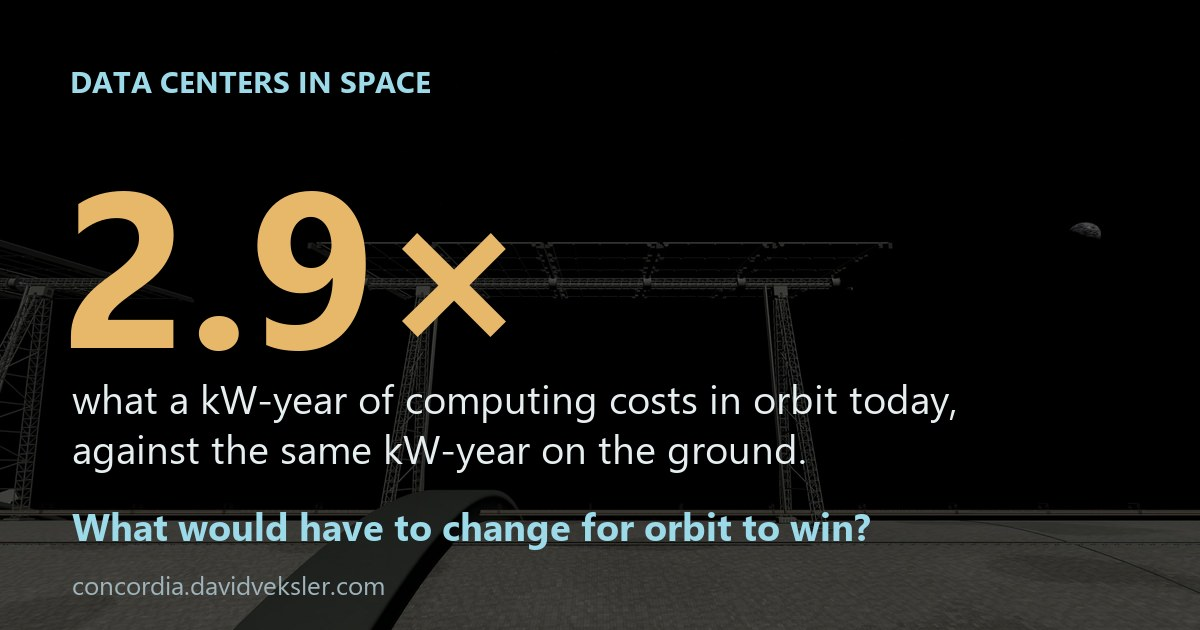
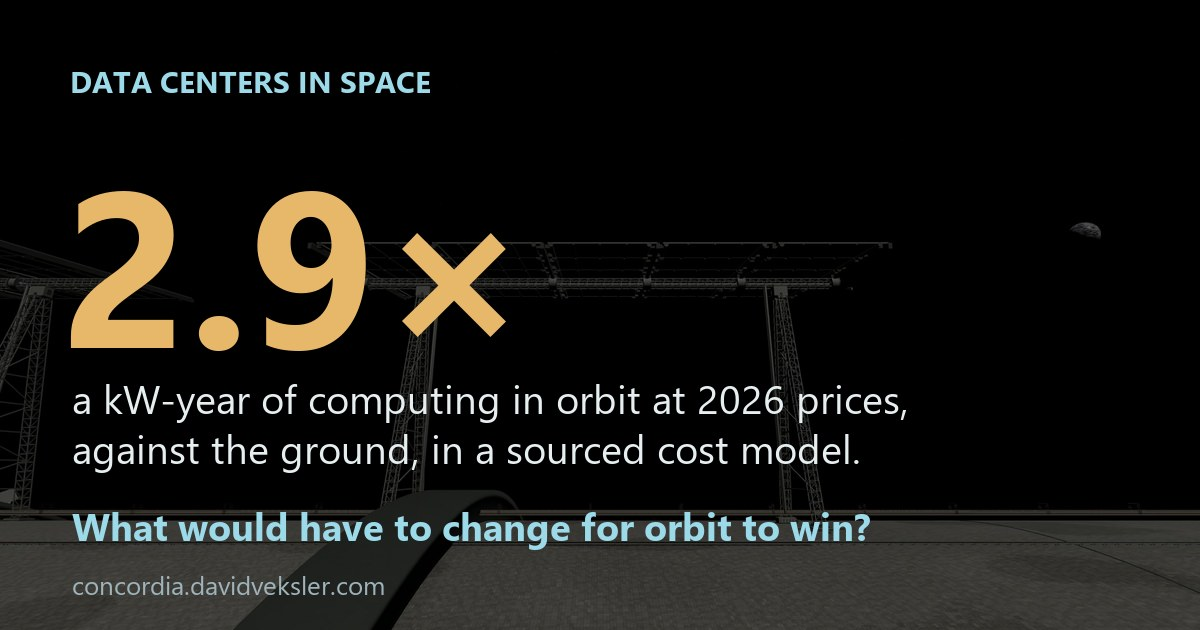
Sync from f7f3b03: Data centers page: address pre-outreach review

Changed region(s): [[0.0617, 0.6032, 0.8017, 0.6635], [0.2158, 0.6937, 0.7092, 0.754]]

diff --git a/site/content/research/data-centers-in-space.md b/site/content/research/data-centers-in-space.md
@@ -2,8 +2,8 @@
 title: "Data centers in space: when do they pay off?"
 h1: "Why build data centers in space?"
 crumb: Data centers in space
-description: "Data centers in space beat the ground only when launch cost, radiator mass and chip life cross clear thresholds. A sourced essay and calculator show where, and why an L5 city exports compute."
-lead: "Computing is the one heavy industry whose product ships for free. It needs electricity, a way to reject heat and a data link. This page sets out the physics and the costs, names the conditions under which orbit beats the ground, and gives a calculator to test them."
+description: "Data centers in space beat the ground only when launch cost, chip prices and the ground's power limits cross clear thresholds. A sourced cost model and calculator show where."
+lead: "For training, rendering and simulation, the results of a computation are small next to the energy used to make them. That makes computing a candidate export from space: it needs electricity, a way to reject heat and a data link. This page sets out the physics and the costs, names the conditions under which orbit beats the ground in one cost model, and gives a calculator to test them."
 nav: science
 order: 52
 updated: 2026-11-14
@@ -11,7 +11,7 @@ schema: TechArticle
 about: Space-based data centers
 faq: faq
 ogImage: /site/og/data-centers-in-space.jpg
-ogImageAlt: "2.9 times: what a kilowatt-year of computing costs in orbit today against the same kilowatt-year on the ground."
+ogImageAlt: "2.9 times: the baseline model's cost of a kilowatt-year of computing in orbit at 2026 prices, against the same kilowatt-year on the ground."
 webApp:
   name: Orbital compute cost calculator
   anchor: calculator
@@ -24,14 +24,14 @@ related:
 ---
 
 {% callout "How to read this page" %}
-The analysis is present-day and sourced; the numbered sources (SD1 and on) are listed in [the method section](#method). Boxes marked **Fiction** are excerpts from Concordia, a space city set in 2045, and every number in them comes from the calculator's Concordia preset.
+The analysis is present-day and sourced; the numbered sources (SD1 and on) are listed in [the method section](#method). Cost ratios are outputs of the page's model for stated inputs, not measured costs. Boxes marked **Fiction** are excerpts from Concordia, a space city set in 2045, and every number in them comes from the calculator's Concordia preset.
 {% endcallout %}
 
 ## Do data centers in space make sense? {#short-answer}
 
-Not yet. Today a kilowatt-year of computing costs about 2.9 times as much in orbit as on the ground. Orbit can compete when three things are true: launch falls to a few hundred dollars per kilogram, chips stay in service for a decade or more, and the ground runs short of sites and power. The third condition decides when the other two matter.
+Not yet. In this page's baseline model, built from 2026 prices, a kilowatt-year of computing costs about 2.9 times as much in orbit as on the ground. That is a modelled ratio, not a measured one: nobody runs an orbital data center at scale, and the model leaves out communications, insurance and radiation-driven failures. In the model, orbit competes when launch falls to a few hundred dollars per kilogram, chips get cheaper, chips in orbit last as long as chips on the ground, and the ground runs short of sites and power. The last condition decides when the others matter.
 
-The orbital case rests on one property of computing. A steel mill or a chip fab ships tonnes of product. A data center ships bits, and bits cost almost nothing to move through a laser link. Its inputs are electricity, heat rejection and a link. Space supplies the first and makes the second hard.
+The orbital case rests on a property of some computing work. A steel mill or a chip fab ships tonnes of product. A training run, a render or a simulation returns results that are small next to the energy used to compute them, and a laser link can carry them. Not every workload fits: uploading training data, moving model checkpoints and serving interactive users need far more bandwidth, and the model does not price the link. The inputs are electricity, heat rejection and a link. Space supplies the first and makes the second hard.
 
 ## Who is building data centers in space in 2026? {#state-of-play}
 
@@ -68,29 +68,34 @@ Running the radiator hotter shrinks it with the fourth power of temperature: 400
 
 ## What would make orbital data centers cheaper than the ground? {#conditions}
 
-Seven conditions, each testable in the [calculator](#calculator):
+Six near-term conditions and three longer-range levers, each testable in the [calculator](#calculator). The near-term conditions need cheaper versions of hardware that exists; the levers need technology or infrastructure that does not exist yet.
 
-1. **Cheap mass in orbit.** Launch falls to a few hundred dollars per kilogram, or the heavy parts (arrays, radiators, structure, shielding) are made in space from lunar or asteroid material.
-2. **Long chip life.** On the ground an accelerator is written off in about five years because newer chips do more work per watt. In orbit every replacement chip is relaunched, so orbit pays only once chips earn for a decade or more. Samir Varma reaches the same conclusion: the orbital bet is a bet that efficiency gains slow down (CA1).
-3. **High-temperature electronics.** Silicon carbide power switches are rated to a 175 °C junction (SD42). Logic chips that ran reliably that hot would let radiators run hotter and lighter.
+1. **Cheap launch.** Launch falls to a few hundred dollars per kilogram.
+2. **Cheaper chips.** Once launch is cheap, buying the chips is most of the orbital bill, and space qualification marks them up further.
+3. **Chips in orbit retire on the ground's schedule.** A longer chip life helps both sides, so by itself it barely moves the ratio: in the model, going from 5 to 12 years takes the Today preset from 2.87 to 3.17 times the ground, and the $200-per-kilogram case from 1.20 to 1.17. What hurts orbit is a shorter life than the ground's, because every replacement chip is launched and heat or radiation can retire chips early. With 12-year chips and $200 launch, running the radiator at 350 K instead of 330 K cuts chip life to 3.6 years and raises the ratio from 1.17 to 2.31. Samir Varma argues that the orbital bet is a bet that efficiency gains slow down (CA1); in this model slower gains lengthen chip life on both sides, so they matter mainly through the ground ceiling below.
 4. **Radiation tolerance.** Shielding, error correction and spares must keep failure rates near ground levels without a large price premium.
-5. **Latency-tolerant work.** Training, batch inference, rendering and simulation can wait a fraction of a second or a few seconds. Interactive serving stays near its users.
-6. **Servicing.** Something has to replace failed boards: robots, or people living nearby.
-7. **A terrestrial constraint.** Orbit does not need to be cheaper than the ground. It needs to be within about a factor of two and able to keep growing when the ground cannot.
+5. **Workloads that tolerate delay and return little data.** Training, batch inference, rendering and simulation can wait a fraction of a second or a few seconds. Interactive serving stays near its users, and work that moves large datasets needs a link budget the model does not include.
+6. **A terrestrial constraint.** Orbit does not need to be cheaper than the ground. It needs to be within the premium the ground would charge if it ran short of sites and power, and able to keep growing if the ground cannot.
 
-The calculator's Today preset shows how the conditions stack. At today's prices orbit costs 2.9 times the ground. Cut launch to $200 per kilogram and the ratio falls to 1.2, with the chips now 78 percent of the orbital bill. Keeping the chips for 12 years helps both sides equally and leaves it at 1.2. Add $10-per-watt chips and orbit reaches parity; add a five-cent siting surcharge on ground power and orbit is 12 percent cheaper.
+Longer-range levers:
+
+7. **Space-made mass.** The heavy parts (arrays, radiators, structure, shielding) are made in space from lunar or asteroid material instead of launched.
+8. **High-temperature electronics.** Silicon carbide power switches are rated to a 175 °C junction (SD42). Logic chips that ran reliably that hot would let radiators run hotter and lighter. None exist today.
+9. **Servicing.** Something has to replace failed boards: robots, or people living nearby. Nothing services satellites at this scale yet.
+
+The calculator's Today preset shows how the near-term conditions stack in the model. At 2026 prices orbit costs 2.9 times the ground. Cut launch to $200 per kilogram and the ratio falls to 1.2, with the chips now 78 percent of the orbital bill. Keeping the chips for 12 years on both sides leaves it at 1.2. Add $10-per-watt chips and orbit reaches parity; add a five-cent siting surcharge on ground power and orbit is 12 percent cheaper. These are model outputs for one sequence of assumptions, not forecasts.
 
 ### What launch price per kilogram is the threshold? {#launch-threshold}
 
-It depends on the chips. At today's prices no launch price makes orbit cheaper: with free launch, the space-qualified accelerators, power hardware and servicing still cost about $12,800 per kW-year against $11,800 for a whole ground kilowatt. If ground capacity runs out and prices rise 50 percent, today's designs break even at about $700 per kilogram and lighter SpaceX-style satellites at about $2,000. Google projects launch prices below about $200 per kilogram by the mid-2030s (SD21); Falcon 9 costs about $3,000 to $3,600 per kilogram today (SD25).
+It depends on the chips. In the model, at today's chip and hardware prices no launch price makes orbit cheaper: with free launch, the space-qualified accelerators, power hardware and servicing still cost about $12,800 per kW-year against $11,800 for a whole ground kilowatt. If ground capacity runs out and prices rise 50 percent, today's designs break even at about $700 per kilogram and lighter SpaceX-style satellites at about $2,000. Google projects launch prices below about $200 per kilogram by the mid-2030s (SD21); Falcon 9 costs about $3,000 to $3,600 per kilogram today (SD25).
 
 ## How much computing can Earth support? {#ceiling}
 
 Data centers used about 415 TWh of electricity in 2024, about 1.5 percent of the world's total and an average load near 47 GW (SD1). The International Energy Agency's base case more than doubles that to about 945 TWh by 2030, about 15 percent a year; it projects 30 percent a year for AI servers (SD2 to SD4). At that pace 2026 starts near 60 GW.
 
-Sustained exponential growth reaches any finite ceiling within decades, and the size of the ceiling barely moves the date:
+The table below is a scenario, not a forecast. It shows when demand would reach each ceiling if growth held at a constant rate, and growth may slow long before any of these dates. What the arithmetic does show is that under sustained exponential growth the size of the ceiling barely moves the date:
 
-| Ceiling on data center power | Size | At 15 % a year | At 30 % a year |
+| Ceiling on data center power | Size | If growth holds at 15 % a year | At 30 % a year |
 | --- | --- | --- | --- |
 | A political cap | 1 TW | 2046 | 2037 |
 | 1 % of Earth's land in solar | 18 TW | 2067 | 2048 |
@@ -99,9 +104,9 @@ Sustained exponential growth reaches any finite ceiling within decades, and the 
 
 A ceiling 9,600 times larger buys 35 more years at 30 percent growth. The land figures use about 12 W of average output per m² of solar farm, the median of recent US plants (SD10, SD11).
 
-{% diagram "oc-ceiling" "Years until data center demand reaches each ceiling, starting from 60 GW in 2026." %}
+{% diagram "oc-ceiling" "Years until data center demand would reach each ceiling if growth held constant, starting from 60 GW in 2026." %}
 
-The binding constraint on the ground is not sunlight. It is the rate at which grid connections, land, permits and cooling water can be found. Large data centers in Northern Virginia wait up to seven years for a grid connection, and London's queue runs 7 to 13 years (SD37). Heat is local before it is global: all human energy use adds about 0.03 W/m² averaged over the planet, but 0.4 to 0.7 W/m² over the United States and western Europe (SD12). A political cap arrives first.
+The binding constraint on the ground is not sunlight. It is the rate at which grid connections, land, permits and cooling water can be found. Large data centers in Northern Virginia wait up to seven years for a grid connection, and London's queue runs 7 to 13 years (SD37). Heat is local before it is global: all human energy use adds about 0.03 W/m² averaged over the planet, but 0.4 to 0.7 W/m² over the United States and western Europe (SD12). If anything limits data center power on the ground, these local limits will bind long before any physical one. Whether they harden into a cap is a policy question this page does not forecast; the calculator lets you set one and see what follows.
 
 ## What does a kW-year of compute cost on Earth and in orbit? {#calculator}
 
@@ -120,6 +125,7 @@ The case against orbit, at full strength:
 - **There are no radiation-hardened GPUs.** Commercial accelerators were never designed for cosmic rays. Shielding adds mass and spares add cost (CA3, CA4).
 - **Refresh cycles force relaunch.** A ground operator swaps a rack in an afternoon. An orbital operator launches a new satellite.
 - **Cadence, debris and servicing.** A million satellites at 60 per Starship flight is about 16,700 launches, against SpaceX's record of 165 orbital launches in 2025 (CA7). Nothing services satellites in orbit yet.
+- **Links cost money.** Optical downlinks need clear sky at the receiving station, so a working system needs several ground stations. Uploading training data and moving checkpoints takes far more bandwidth than returning results. This page's model prices none of it.
 
 What answers each objection:
 
@@ -128,12 +134,13 @@ What answers each objection:
 | Ground power is cheaper | A terrestrial constraint: orbit only needs to be within about 2× | Open: depends on how fast siting runs out |
 | Radiators are heavy | Space-made radiators, or hotter chips | Open: needs in-space manufacturing or new semiconductors |
 | No rad-hard GPUs | Shielding, error tolerance, spares | Partly answered: a Google TPU survived 15 krad in a proton beam (SD20); no on-orbit data yet |
-| Refresh cycles | Chips that stay useful for 10 years or more | Open: needs efficiency gains to slow |
+| Refresh cycles | Cheap relaunch, and chips in orbit that last as long as chips on the ground | Open: depends on radiator temperature and radiation |
 | Cadence, debris, servicing | High orbits or Lagrange points; material made in space; resident technicians | Open: none of it exists |
+| Links cost money | Workloads that return little data; several ground stations | Open: not in this model |
 
 ### Should space beam power down or send bits? {#power-or-bits}
 
-Gerard O'Neill's 1970s space colonies paid for themselves by building solar power satellites that beamed energy to Earth. Beaming power needs a receiving antenna kilometres across and loses energy at both ends. Sending the results of a computation needs a laser terminal: NASA sent 622 megabits per second from lunar orbit in 2013, and its TBIRD cubesat reached 200 gigabits per second from low orbit in 2022. Shipping bits instead of watts removes the hardest part of space solar power.
+Gerard O'Neill's 1970s space colonies paid for themselves by building solar power satellites that beamed energy to Earth. Beaming power needs a receiving antenna kilometres across and loses energy at both ends. Sending the results of a computation needs a laser terminal: NASA sent 622 megabits per second from lunar orbit in 2013, and its TBIRD cubesat reached 200 gigabits per second from low orbit in 2022, in short passes over a ground station. For workloads that return little data, shipping bits instead of watts removes the hardest part of space solar power. The link is still a real cost, with clear-sky ground stations and capacity for any data sent up, and this page's model leaves it out.
 
 ## Why does Concordia export compute? {#concordia}
 
@@ -167,11 +174,11 @@ About 830 m² at 330 K and emissivity 0.9, radiating from both faces: about 4 to
 
 ### What launch cost would make space data centers economical?
 
-It depends on the chips. At today's chip prices and five-year refresh cycles no launch price makes orbit cheaper than the ground. If ground capacity runs short and prices rise 50 percent, today's designs break even near $700 per kilogram and lighter satellite designs near $2,000.
+It depends on the chips. In this page's cost model, at today's chip prices no launch price makes orbit cheaper than the ground. If ground capacity runs short and prices rise 50 percent, today's designs break even near $700 per kilogram and lighter satellite designs near $2,000.
 
 ### Why do critics say space data centers won't work?
 
-Ground power is cheaper, radiators are heavy, commercial GPUs are not radiation-hardened, chips go obsolete in about five years and must be relaunched, and no rocket fleet can yet launch a million satellites. At 2026 prices those objections hold: orbit costs about 2.9 times the ground.
+Ground power is cheaper, radiators are heavy, commercial GPUs are not radiation-hardened, chips go obsolete in about five years and must be relaunched, and no rocket fleet can yet launch a million satellites. At 2026 prices those objections hold: this page's baseline model puts orbit at about 2.9 times the ground.
 
 ### Does radiation destroy GPUs in orbit?
 
@@ -179,19 +186,19 @@ Not quickly, as far as tests show. Google exposed a Trillium TPU to a proton bea
 
 ### How would a space data center send its results back to Earth?
 
-By laser. NASA's TBIRD reached 200 gigabits per second from low Earth orbit in 2022, and a lunar laser link sent 622 megabits per second in 2013. Results are small compared with the energy used to compute them.
+By laser. NASA's TBIRD reached 200 gigabits per second from low Earth orbit in 2022, and a lunar laser link sent 622 megabits per second in 2013. For training, rendering and simulation the results are small next to the energy used to make them. Work that moves large datasets needs far more capacity, and optical links need several ground stations to work around cloud.
 
 ### Is it better to beam solar power to Earth or put the computers in orbit?
 
-Putting the computers in orbit avoids the kilometre-wide receiving antennas and the conversion losses of power beaming. It sends bits, which need only a laser terminal. That is why the case for orbital computing is stronger than the old case for space solar power.
+Putting the computers in orbit avoids the kilometre-wide receiving antennas and the conversion losses of power beaming. It sends bits, which need a laser terminal and clear-sky ground stations. For work that returns little data, that makes the case for orbital computing stronger than the old case for space solar power.
 
 ### What would a space colony export?
 
-Computation. It needs energy, heat rejection and a data link, all of which a colony has, and its product weighs nothing. In Concordia's fictional economy a 200 GW compute field is the anchor tenant that pays for the habitat.
+Computation. It needs energy, heat rejection and a data link, all of which a colony has, and for work such as training and rendering its results weigh nothing and need little bandwidth. In Concordia's fictional economy a 200 GW compute field is the anchor tenant that pays for the habitat.
 
 ## Where do these numbers come from? {#method}
 
-The calculator and this page run the same model, `site/js/widgets/orbit-compute-core.mjs`. A script, [orbit_compute.mjs](https://github.com/DavidVeksler/concordia/blob/main/scripts/analysis/orbit_compute.mjs), prints every number on the page and regenerates the three diagrams, and an automated test checks the model against hand-worked values on every push. It is an order-of-magnitude model. It leaves out heat pumps, eclipse storage, debris, insurance, radiation-driven failure rates, communications cost and ground stations.
+The calculator and this page run the same model, `site/js/widgets/orbit-compute-core.mjs`. A script, [orbit_compute.mjs](https://github.com/DavidVeksler/concordia/blob/main/scripts/analysis/orbit_compute.mjs), prints every number on the page and regenerates the three diagrams, and an automated test checks the model against hand-worked values on every push. It is an order-of-magnitude model, and the ratios it prints are scenario outputs, not measured costs. It leaves out heat pumps, eclipse storage, debris, insurance, radiation-driven failure rates, communications cost and ground stations.
 
 {% deeper "Model equations" %}
 Capital recovery factor, the yearly payment that repays one dollar over n years at rate r:
@@ -215,7 +222,7 @@ Ceiling: energy growth = (1 + demand growth) / (1 + efficiency gain) − 1; year
 1 % of land in solar: 1.49 × 10¹⁴ m² of land × 1 % × 12 W/m² of average output = 18 TW. Sunlight intercepted: π × (6,371 km)² × 1,361 W/m² = 173,500 TW. Data center load in 2024: 415 TWh / 8,760 h = 47 GW.
 {% enddeeper %}
 
-Changelog: 14 November 2026, first version.
+Changelog: 14 November 2026, first version. 14 November 2026, revised: chip life restated as a retirement-schedule condition (a longer life helps both sides; a shorter life in orbit hurts orbit), link and bandwidth assumptions qualified, ratios and growth dates labelled as model outputs and scenarios, longer-range levers moved after the near-term conditions.
 
 {% sources %}
 - SD1 to SD4. IEA, "Energy and AI", 2025, chapter "Energy demand from AI" (415 TWh and 1.5 % in 2024; 945 TWh by 2030; 12 % a year over five years; AI servers 30 % a year to 2030), accessed 14 November 2026: [iea.org](https://www.iea.org/reports/energy-and-ai/energy-demand-from-ai).
